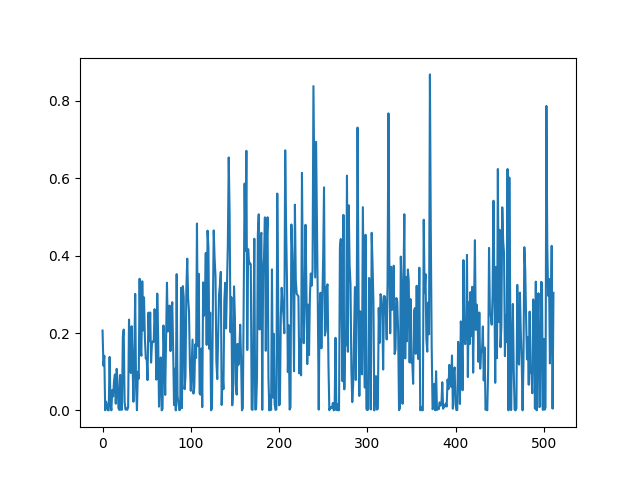
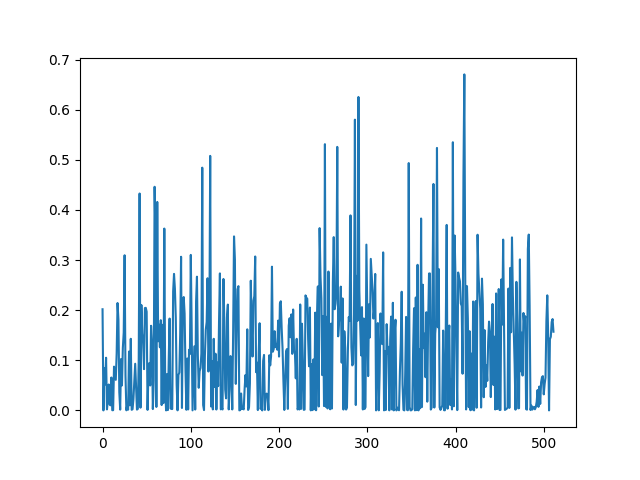
Update

diff --git a/ensemble.py b/ensemble.py
@@ -33,7 +33,9 @@ class Ensemble():
         self.lambda_history = []
         self.priv_loss = [] 
         self.target = np.log(self.num_ensemble * np.exp((self.alpha-1) * self.eps / self.q_budget)
-                        + 1 - self.num_ensemble) / (4 * (self.alpha - 1))
+                        + 1 - self.num_ensemble) / (4*(self.alpha - 1))
+        #self.target = np.log(self.num_ensemble * np.exp(self.eps / self.q_budget)
+        #                     + 1 - self.num_ensemble) / 2
         print(f"Target value {self.target:2f}")
         self.beta = 0.01
         self.sigma = np.sqrt((self.q_budget * (3 * self.alpha + 2)) / self.eps)
@@ -100,14 +102,12 @@ class Ensemble():
                        for i in range(self.num_ensemble)]
         mixed_dists = torch.stack(mixed_dists)
         ensemble_dist = mixed_dists.mean(dim=0) 
-        loss = self.data_dependent_loss(mixed_dists, p_pub, alpha=self.alpha)
+        loss = self.data_dependent_loss(mixed_dists, alpha=self.alpha)
         '''
         for i in range(self.num_ensemble):
             p_i = torch.cat((mixed_dists[:i, :], mixed_dists[i+1:, :])).mean(dim=0)
-            eps = max(self.renyiDiv(p_i, mixed_dists[i], self.alpha),
-                      self.renyiDiv(mixed_dists[i], p_i, self.alpha))
-            if eps > self.eps/self.q_budget:
-                print(i, eps)
+            eps = self.renyiDiv(2*ensemble_dist - p_i, ensemble_dist)
+            print(i, eps)
             #print(i, self.data_independent_loss(mixed_dists[i], p_pub, self.alpha))
         '''
         if loss > self.eps/(self.q_budget):
@@ -115,7 +115,7 @@ class Ensemble():
         self.priv_loss.append(loss) 
         return ensemble_dist
 
-    def data_dependent_loss(self, mixed_dists, p_pub, alpha, ret_idx=False):
+    def data_dependent_loss(self, mixed_dists, alpha, ret_idx=False):
         max_loss = 0
         idx = -1 
         p = mixed_dists.mean(dim=0)
@@ -187,20 +187,10 @@ class Ensemble():
         return lambd
 
     def lambda_solver(self, p_priv, p_pub):
-        #val_1 = ((np.exp(self.target) - 1) * p_pub) / (p_priv - p_pub)
-        #val_2 = ((1 / np.exp(self.target) - 1) * p_pub) / (p_priv - p_pub)
-        #val = torch.max(val_1, val_2)
-        #val = torch.min(val, torch.ones(val.size()[0]))
-        val_1 = ((np.exp((self.alpha-1)*(self.eps/self.q_budget)) - 1) / (
-                torch.sum((p_pub**(self.alpha)) / (p_priv**(self.alpha-1))) - 1 
-                )
-        )
-        val_2 = ((np.exp((self.alpha-1)*(self.eps/self.q_budget)) - 1) / ( 
-                torch.sum((p_priv**(self.alpha)) / (p_pub**(self.alpha-1))) - 1 
-                )
-        )
-        print(val_1, val_2)
+        val_1 = ((np.exp(self.target) - 1) * p_pub) / (p_priv - p_pub)
+        val_2 = ((1 / np.exp(self.target) - 1) * p_pub) / (p_priv - p_pub)
         val = torch.max(val_1, val_2)
+        val = torch.min(val, torch.ones(val.size()[0]))
         return val
 
     def mix(self, p, p_prime, lambd=0.5):
